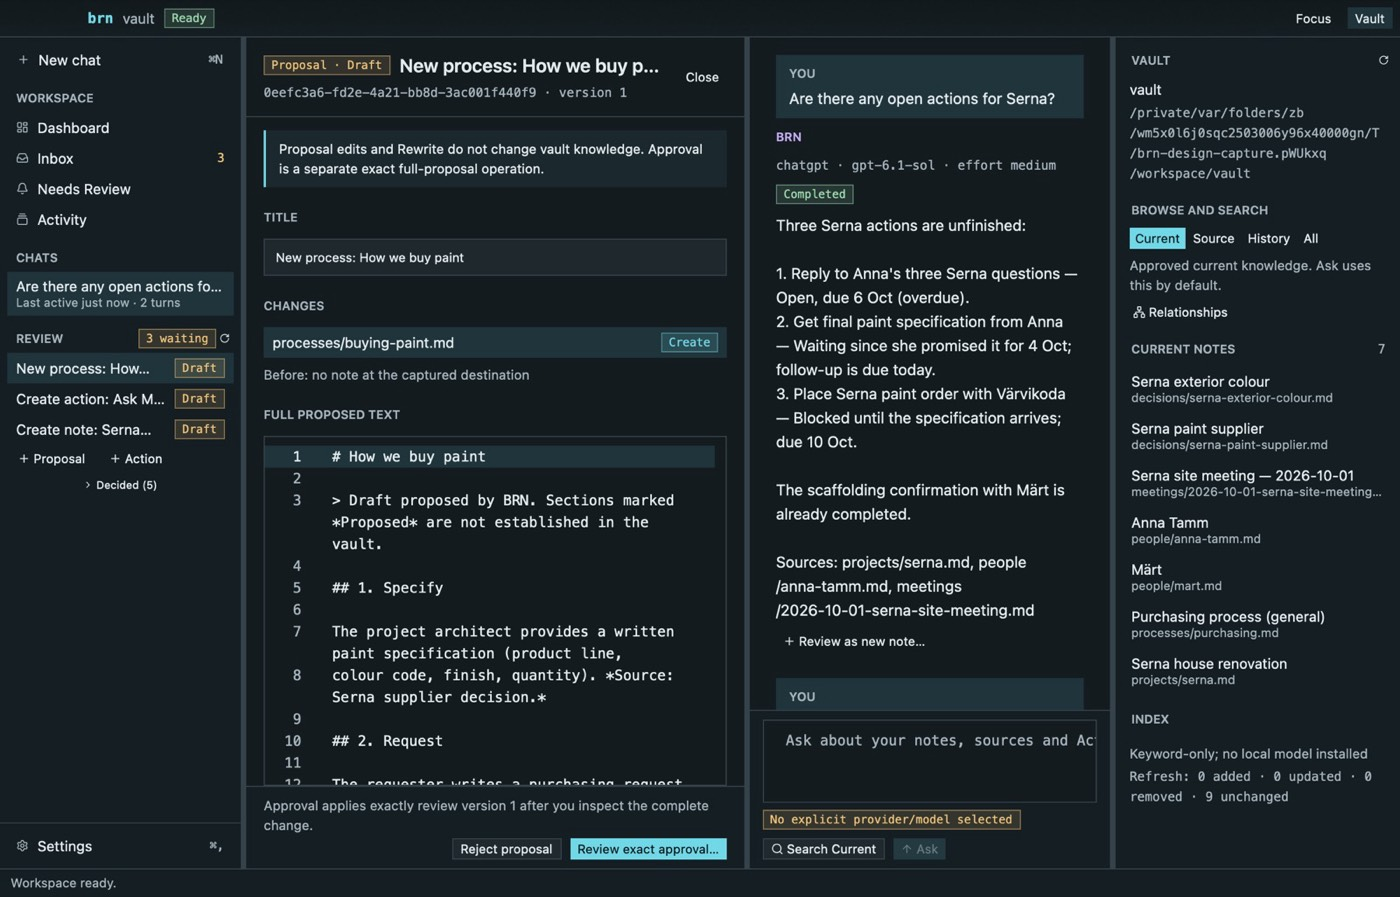
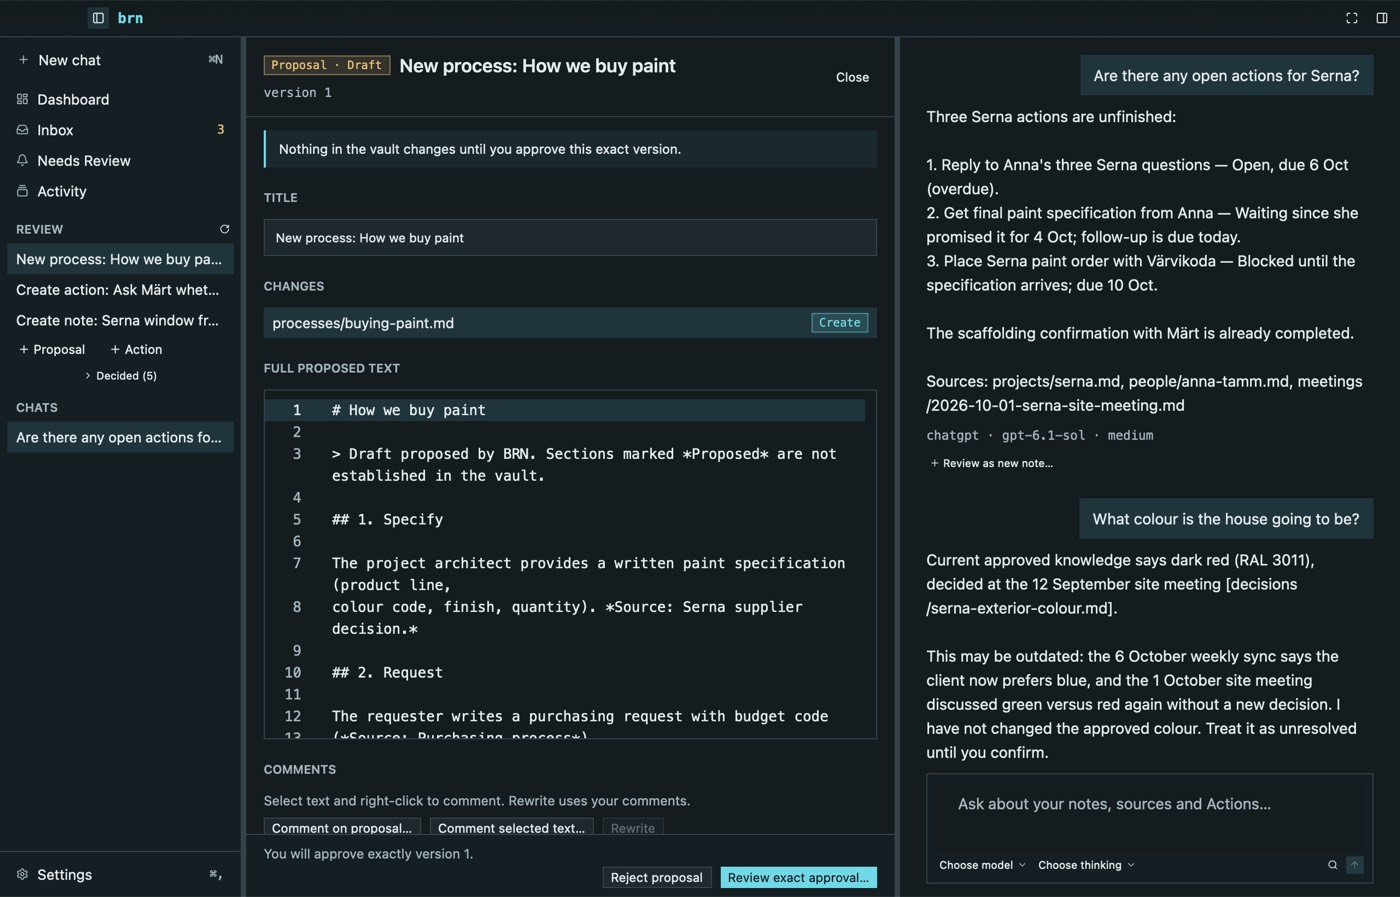
docs(design): record owner feedback round 1 as decisions D16-D19
Update IA, components, interaction, trust patterns, verification,
open preferences, prototype composer and current screenshots.

diff --git a/docs/design/src/prototypes/brn-prototype.html b/docs/design/src/prototypes/brn-prototype.html
@@ -84,8 +84,10 @@
   .chip { font: 10px var(--brn-font-mono); padding: 0 4px; margin-left: 3px; vertical-align: 1px; border: 1px solid; cursor: pointer; }
   .trail { font: 11.5px var(--brn-font-mono); color: var(--brn-muted); margin: 4px 0 8px; }
   .trail b { color: var(--brn-purple); font-weight: normal; }
-  .composer { border-top: 1px solid var(--brn-line); background: var(--brn-panel); padding: 8px 12px; }
-  .composer textarea { width: 100%; height: 64px; resize: none; background: var(--brn-paper); color: var(--brn-text); border: 1px solid var(--brn-line); padding: 8px; font: 13px var(--brn-font-ui); }
+  .composer { margin: 0 24px 12px; border: 1px solid var(--brn-line); background: var(--brn-panel); padding: 8px 12px; }
+  .picker { font: 12px var(--brn-font-ui); color: var(--brn-text); background: transparent; border: 0; padding: 2px 4px; }
+  .q { margin-left: auto; width: fit-content; }
+  .composer textarea { width: 100%; height: 56px; resize: none; background: transparent; color: var(--brn-text); border: 0; padding: 4px; font: 14px var(--brn-font-ui); }
   .status { display: flex; align-items: center; gap: 12px; padding: 0 12px; background: var(--brn-panel); border-top: 1px solid var(--brn-line); font-size: 11.5px; color: var(--brn-muted); }
   .draft { font-size: 14px; line-height: 1.65; }
   .draft mark { background: none; color: inherit; border-bottom: 2px solid var(--tone); }
@@ -115,15 +117,15 @@
 </div>
 <div class="app">
   <header>
-    <span class="brand">brn</span><span style="color:var(--brn-muted)">work-vault</span>
-    <span id="phase" class="badge t-success">Ready</span>
+    <span class="brand">brn</span>
+    <span id="phase" class="badge t-success" hidden>Ready</span>
     <span style="flex:1"></span>
     <span id="budget" class="meta"></span>
     <button id="stop" class="btn-danger" hidden>Stop</button>
     <button class="btn-ghost" id="focus" title="Hide both rails (⇧⌘↩)">Focus</button>
     <button class="btn-ghost" id="vaultToggle" title="Show or hide the vault (⌥⌘0)">Vault</button>
   </header>
-  <div class="main" id="main">
+  <div class="main novault" id="main">
     <nav aria-label="Navigator">
       <button class="row btn-outline" data-go="chat" data-new>＋ <span class="grow">New chat</span><span class="meta">⌘N</span></button>
       <div class="label">Workspace</div>
@@ -294,7 +296,7 @@ function renderChat() {
     Three Serna Actions are unfinished. The most urgent is replying to Anna’s three questions — due yesterday<span class="chip t-success" onclick="explain('vault')">vault</span>. You are also waiting for her final specification<span class="chip t-success" onclick="explain('vault')">vault</span>, which blocks the paint order<span class="chip t-success" onclick="explain('vault')">vault</span>.</div>
     <div class="q"><div class="who">YOU</div>Write an answer to Anna.</div><div class="a" id="draftAnswer"></div></div>`;
   }
-  $('#chat').innerHTML = body + `<div class="composer"><textarea id="composer" aria-label="Message" placeholder="${offline ? 'AI unavailable — you can still search, browse and review' : 'Ask about your notes, sources and Actions…'}"></textarea><div class="flex spread" style="margin-top:6px"><span>${offline ? badge('ChatGPT unavailable · checked 09:38', 'danger') : '<span class="meta">ChatGPT / gpt-6.1-sol · medium · budget 40 k tokens</span>'}</span><span class="flex">${badge('Current scope', 'success')}<button class="btn-outline">Search Current</button><button class="btn-primary" ${offline ? 'disabled' : ''} onclick="draftReply()">Ask</button></span></div></div>`;
+  $('#chat').innerHTML = body + `<div class="composer"><textarea id="composer" aria-label="Message" placeholder="${offline ? 'AI unavailable — you can still search, browse and review' : 'Ask about your notes, sources and Actions…'}"></textarea><div class="flex spread" style="margin-top:6px"><span class="flex"><select aria-label="Model" class="picker"><option>gpt-6.1-sol</option><option>gpt-6-luna</option><option>GPT-6 Astra (Copilot)</option></select><select aria-label="Thinking effort" class="picker"><option>Low thinking</option><option selected>Medium thinking</option><option>High thinking</option></select>${offline ? badge('ChatGPT unavailable', 'danger') : ''}</span><span class="flex"><button class="btn-ghost" title="Search notes (no AI)">⌕</button><button class="btn-primary" ${offline ? 'disabled' : ''} onclick="draftReply()" aria-label="Ask">↑</button></span></div></div>`;
   renderDraftAnswer();
 }
 function renderDraftAnswer() {
@@ -307,7 +309,7 @@ function renderDraftAnswer() {
   <div class="flex" style="margin-top:8px"><button class="btn-primary" onclick="go('review')">Open reply proposal (v${S.version})</button><button class="btn-ghost" onclick="go('needs-review')">See colour conflict</button></div>
   ${callout('ai', 'Possible outcome to capture: <b>Anna asked about window frames</b> → add to the Serna project. <button class="btn-outline">Propose capture…</button> <button class="btn-ghost">Not now</button>')}`;
 }
-function busy(on, label) { $('#stop').hidden = !on; $('#phase').className = 'badge ' + (on ? 't-ai' : 't-success'); $('#phase').textContent = on ? (label || 'Answering · provisional') : 'Ready'; $('#budget').textContent = on ? 'budget 40 k tokens · ⌘. to stop' : ''; }
+function busy(on, label) { $('#stop').hidden = !on; $('#phase').hidden = !on; $('#phase').className = 'badge ' + (on ? 't-ai' : 't-success'); $('#phase').textContent = on ? (label || 'Answering · provisional') : 'Ready'; $('#budget').textContent = on ? 'budget 40 k tokens · ⌘. to stop' : ''; }
 function draftReply() {
   chatMode = 'draft'; location.hash = 'chat'; streaming = true; busy(true); route();
   const steps = ['Searching vault', 'checking 8 sources', 'reading thread “Serna paint spec”', 'web: Värvikoda lead times', 'drafting'];

diff --git a/docs/design/src/information-architecture.md b/docs/design/src/information-architecture.md
@@ -2,41 +2,46 @@
 
 ## Window regions
 
+Minimal by default (owner direction D16): sidebar and chat only; the vault rail
+opens on demand.
+
 ```text
-┌ Header: brn · vault name · phase badge ·········· Stop · Focus · Vault ┐
-├ Navigator ┬ Centre: document pane ┃ chat ─────────────┬ Vault rail ──┤
-│ New chat  │ (a surface or note)   ┃ transcript        │ identity     │
-│ Workspace │                       ┃                   │ scope        │
-│ Chats     │                       ┃ composer          │ notes, index │
-│ Review    │                       ┃                   │              │
+┌ Header: ▯ brn · (phase badge only when not Ready) ······ Stop · ⤢ · ▯ ┐
+├ Sidebar ──┬ Centre: document pane ┃ chat ─────────────┬ (Vault rail) ┤
+│ New chat  │ (a surface or note)   ┃    question  ▐    │ closed by    │
+│ Dashboard │                       ┃ answer            │ default      │
+│ Inbox  3  │                       ┃ model · effort    │              │
+│ Needs Rev │                       ┃ ┌ composer ─────┐ │              │
+│ Review    │                       ┃ │ model▾ think▾ │ │              │
+│ Chats     │                       ┃ └───────────────┘ │              │
 │ Settings  │                       ┃                   │              │
-├───────────┴───────────────────────┸───────────────────┴──────────────┤
-└ Status strip: last event · (future) model and budget                 ┘
+└───────────┴───────────────────────┸───────────────────┴──────────────┘
+  (status strip appears only for a real notice)
 ```
 
-- **Header** — identity and global state only: brand, vault name, a phase badge
-  (Ready / Answering · provisional / Rewriting · knowledge unchanged / Workspace
-  unavailable), Stop while work runs, Focus, Vault toggle, and Settings when the
-  navigator is collapsed.
-- **Navigator (left rail)** — *where work lives*. Groups, in order:
+- **Header** — sidebar toggle, brand, a phase badge only when not Ready
+  (Answering · provisional / Rewriting · knowledge unchanged / Workspace
+  unavailable), Stop while work runs, Focus, vault toggle, and Settings when the
+  sidebar is hidden.
+- **Sidebar (left)** — *where work lives*, in order:
   1. **New chat** (⌘N).
-  2. **Workspace** — the operational surfaces, each with a count only when the
-     count is already known: *Dashboard* (future *Today*), *Inbox*,
-     *Needs Review*, *Activity*; later *Projects*, *People*, *Graph*.
-  3. **Chats** — active sessions, newest first, with last-activity age; later a
-     link to all chats and the archive.
-  4. **Review** — proposals awaiting a decision, each with a state badge;
-     decided proposals collapse under *Decided (n)*. Small create commands
-     (*Proposal*, *Action*) sit here because creating means drafting for review.
+  2. **Dashboard** (future *Today*), **Inbox**, **Needs Review**, **Activity**
+     — each with a count only when it is already known.
+  3. **Review** — proposals awaiting a decision (no badge for ordinary drafts);
+     *Proposal* / *Action* create commands; *Decided (n)* collapsed.
+  4. **Chats** — titles only; last activity is in the tooltip.
   5. **Settings** (⌘,) pinned to the bottom.
-- **Centre** — chat is always present. Opening a surface or note shows it in the
-  **document pane** beside the chat (resizable divider). With nothing open, the
-  chat takes the whole centre. Narrow windows switch to *Document | Chat* tabs.
-- **Vault rail (right)** — *what you know*: vault identity, retrieval scope
-  (Current / Source / History / All, with the scope's meaning), relationships,
-  notes in that scope, recovered edits and index state.
-- **Status strip** — the last event in a sentence, and persistent workspace
-  notices (startup failure, restored backup, layout warning).
+- **Centre** — chat is always present, as a centred reading column. With no
+  conversation the greeting and composer sit together in the middle. Opening a
+  surface or note shows it in the **document pane** beside the chat. Narrow
+  windows switch to *Document | Chat* tabs.
+- **Composer** — the question box, the **model** and **thinking-effort**
+  pickers (D17), Search (no AI) and Ask / Stop.
+- **Vault rail (right, closed by default)** — the Markdown vault: notes in the
+  selected retrieval scope (Current / Source / History / All), relationships,
+  recovered edits and index state. Open it with the header toggle or ⌥⌘0.
+- **Status strip** — only when there is something to say: a last event worth
+  reading, startup failure, restored backup or layout warning.
 
 ## Full-product navigation model
 

diff --git a/docs/design/src/decisions.md b/docs/design/src/decisions.md
@@ -21,6 +21,10 @@ owner column. Add new decisions at the end; supersede rather than rewrite.
 | D13 | Handbook in Markdown + mdBook; tokens generated from code | Proposed, implemented | — |
 | D14 | Real-view headless captures for documentation | Proposed, implemented | — |
 | D15 | Recorded times shown in UTC for now | Proposed, implemented; preference open | — |
+| D16 | Minimal, ChatGPT-desktop-like chat; vault rail closed by default | Owner direction, implemented | Owner feedback 2026-10-07 |
+| D17 | Model and thinking-effort pickers in the composer | Owner direction, implemented | Owner feedback 2026-10-07 |
+| D18 | Select text and right-click to comment in proposals | Owner direction, implemented | Owner feedback 2026-10-07 |
+| D19 | Keep the refined-terminal theme | Owner liked it (feedback 2026-10-07) | Liked; formal acceptance pending |
 
 ## D1 Keep the refined-terminal identity, correct its typography
 
@@ -106,6 +110,33 @@ is visual evidence only.
 The UI had raw millisecond values. UTC is exact and identical across clients;
 local-time display is a preference to settle (see
 [open preferences](open-questions.md)).
+
+## D16 Minimal, ChatGPT-desktop-like chat
+
+Owner feedback, 2026-10-07: “extremely busy… too much info… should resemble the
+GPT desktop app… needs to be more minimal”. Changes: vault rail closed on first
+run (header toggle opens it; a saved layout keeps your choice); collapsed rails
+take no space; header shows only toggles and a phase badge when not Ready; the
+status strip appears only for real notices; the empty chat centres a greeting and
+the composer; questions are right-aligned bubbles, answers plain text with a
+quiet model line; sidebar without the Workspace label, Draft badges or chat ages
+(ages in tooltips); fewer explanatory sentences; recovery and advanced commands
+behind *More options* unless they are needed; Inbox cleanup and Source
+preparation appear only when relevant.
+
+## D17 Model and thinking-effort pickers in the composer
+
+Owner feedback: model and effort “should not be hidden in Settings”. The
+composer shows two dropdowns (model from discovered models, Low / Medium / High
+thinking). They send the same selection commands as Settings, so each request
+still freezes its choice and BRN never switches silently. Connecting accounts
+and discovering models stay in Settings (linked from the model menu).
+
+## D18 Right-click to comment
+
+Owner feedback: commenting should work by selecting text and right-clicking.
+The proposed-text editor's right-click menu offers *Comment on selection…*,
+*Copy* and *Select All*; the existing exact-selection comment flow is reused.
 
 ## Earlier design material reconciled
 

diff --git a/docs/design/src/components.md b/docs/design/src/components.md
@@ -21,7 +21,9 @@ themed by [`theme.rs`](../../../crates/brn-desktop/src/native/theme.rs).
 | Button tiers | `ui::primary`, `ui::secondary`, `ui::quiet`, or `Button` + `.primary()/.outline()/.ghost()/.danger()` | See below | — | Implemented |
 | Count tile | inline in [`dashboard.rs`](../../../crates/brn-desktop/src/native/dashboard.rs) | Dashboard counts; tone only when non-zero | General statistics | Implemented (candidate for `ui`) |
 | Decision bar | inline in [`review.rs`](../../../crates/brn-desktop/src/native/review.rs) | Persistent bottom bar for a proposal decision | Non-binding actions | Implemented (candidate for `ui`) |
-| Chat exchange | `chat_exchange` in [`simple.rs`](../../../crates/brn-desktop/src/native/simple.rs) | Question block, BRN label with recorded provider/model/effort, status badge, answer | — | Implemented |
+| Chat exchange | `chat_exchange` in [`simple.rs`](../../../crates/brn-desktop/src/native/simple.rs) | Right-aligned question bubble, plain answer, quiet recorded provider · model · effort line; a status badge only when not Completed | — | Implemented |
+| Composer pickers | `render_composer` in [`simple.rs`](../../../crates/brn-desktop/src/native/simple.rs) | Model and thinking-effort dropdowns in the composer; same commands as Settings | Account connection (stays in Settings) | Implemented |
+| More options | `tools_toggle` in [`simple.rs`](../../../crates/brn-desktop/src/native/simple.rs) | Hiding rarely needed recovery/advanced commands; they show automatically when needed | Primary actions | Implemented |
 | Claim chip | prototype `.chip` | Inline provenance label on a claim | — | Prototype |
 | Activity trail | prototype `.trail` | One-line summary of AI steps, time and tokens | Raw tool transcripts | Prototype |
 | Review group list | prototype Inbox | Checkbox list of independent proposals + one approval | — | Prototype |
@@ -37,6 +39,13 @@ themed by [`theme.rs`](../../../crates/brn-desktop/src/native/theme.rs).
 
 Use `.small()` in panes and rails; reserve default size for dialogs. Labels are
 verbs; an ellipsis (…) means a dialog or form follows.
+
+## Minimal by default
+
+Owner direction (D16): show the least that lets the owner act. Prefer no badge
+for the normal state, tooltips over always-visible metadata, one short sentence
+over a paragraph, and sections that appear only when they apply. Safety
+statements stay, but say it once and plainly.
 
 ## States every component must show
 

diff --git a/docs/design/src/verification.md b/docs/design/src/verification.md
@@ -8,7 +8,7 @@ Each line names what was checked and how; none of it is owner acceptance.
 
 | Check | Scope | Result |
 | --- | --- | --- |
-| `cargo test -p brn-desktop --features native-ui,native-retrieval,native-test-support` | Unit, state and native widget tests (synthetic interaction via the toolkit test context) | 300 passed + 7 CLI tests passed (baseline 299 + 7; one new `utc_time` test) |
+| `cargo test -p brn-desktop --features native-ui,native-retrieval,native-test-support` | Unit, state and native widget tests (synthetic interaction via the toolkit test context) | 301 passed + 7 CLI tests passed (baseline 299 + 7; new `utc_time` and right-click comment tests) |
 | `cargo clippy -D warnings` | brn-desktop with default, `native-ui`, `native-ui,native-retrieval,native-test-support`, `native-capture` | Clean (upstream `block` future-incompatibility note only) |
 | `cargo fmt --check` | Workspace | Clean |
 | `bash scripts/verify-desktop-shell.sh --native` | Repository desktop gate: fmt, workspace build/clippy/tests, native builds, clippy for every native feature set, native tests, headless AppWorker startup | Passed (exit 0) after review fixes |
@@ -57,10 +57,22 @@ capture tooling) by a separate reviewer agent. Findings and dispositions:
 | `python3 scripts/check-markdown-links.py` | Passes |
 | `python3 -m unittest discover -s scripts/tests` | Passes, including token drift and contrast tests |
 
+### Owner feedback round 1 (2026-10-07)
+
+Feedback: too busy and distracting; unclear what the vault rail is; model and
+thinking effort should be in the chat box; select-and-right-click commenting;
+should resemble the ChatGPT desktop app; theme liked. Implemented as D16–D18 and
+re-verified: native tests 301 + 7 pass; clippy clean for all feature sets;
+headless captures refreshed and inspected. A new widget test dispatches the
+right-click *Comment on selection…* action on a real selection and checks that
+the exact-selection comment dialog opens. Native right-click by hand remains to
+be tried.
+
 ## Owner acceptance
 
 | Item | Decision | Date |
 | --- | --- | --- |
 | Design direction and decisions D1–D15 | *Pending review* | — |
+| D16–D18 (minimal layout, composer pickers, right-click comments) | Owner-directed; result pending your next look | 2026-10-07 |
 | Current-app restyle on this branch | *Pending review* | — |
 | Future designs and prototype | *Pending review* | — |

diff --git a/docs/design/src/open-questions.md b/docs/design/src/open-questions.md
@@ -6,14 +6,14 @@ or proposed. Record your answer in [decisions](decisions.md).
 
 | # | Question | Current default | Alternatives |
 | --- | --- | --- | --- |
-| 1 | **Overall feel**: keep the dark-first refined-terminal identity with sans text? | Yes (D1) | Lighter default; softer corners (2–4 pt radius); serif for reading |
+| 1 | **Overall feel**: keep the dark-first refined-terminal identity with sans text? | Yes (D1); owner liked the theme (D19) and asked for less density (D16) | Further reduction after the next look |
 | 2 | **Times**: show recorded times in UTC or your local time zone? | UTC, exact | Local with UTC on hover; relative (“2 h ago”) in lists |
 | 3 | **Home**: should *Today* replace *Dashboard* as the first surface when planning lands? | Yes (D9) | Keep Dashboard name; open Today automatically at launch |
 | 4 | **Decided proposals** in the navigator: collapsed, hidden after N days, or only in Activity? | Collapsed `Decided (n)` | Hide entirely; show last 3 |
 | 5 | **Claim chips**: one chip per claim, or only for non-vault claims (proposed/unknown/web/conflict)? | Every important claim | Only non-vault, to reduce noise |
 | 6 | **Budget display**: always show tokens/time, or only when a request runs long? | Always in the activity trail | Only above a threshold |
 | 7 | **Icons**: embed more Lucide icons (requires enabling the toolkit's full icon set) for Projects/People/Graph? | Stay within the embedded ~100 | Full set (larger binary) |
-| 8 | **Recovery tools** in the note editor (*Flush*, *Observe disk*, *Compare*, *Reload*): always visible (quiet) or only when relevant? | Always visible, quiet | Behind a *Recovery* disclosure |
+| 8 | **Recovery tools** in note and proposal views | Settled by D16: behind *More options*, shown automatically when needed | — |
 | 9 | **Language**: should UI chrome be available in Estonian? | English chrome, content as written | Estonian chrome option |
 | 10 | **Density**: current 13 pt chrome / 14 pt reading. | As is | Larger reading text (15–16 pt) |
 

diff --git a/docs/design/src/brn-patterns.md b/docs/design/src/brn-patterns.md
@@ -46,7 +46,8 @@ stated in words (“has not been decided”). See the [prototype](prototypes.md)
 ## Drafts and Rewrite
 
 Drafts are private and persisted, but never masquerade as current knowledge.
-Comments are temporary review notes, deleted after successful approval. Rewrite
+Comments are temporary review notes, deleted after successful approval. Select
+text in the proposed text and right-click → *Comment on selection…* (D18). Rewrite
 runs on the selected model with a visible phase (“Rewriting · knowledge
 unchanged”), can be stopped, and replaces the whole draft as a new version.
 

diff --git a/docs/design/src/interaction.md b/docs/design/src/interaction.md
@@ -15,6 +15,7 @@ Implemented shortcuts (menus *BRN*, *View*, *Navigate*):
 | ⇧⌘↩ | Focus mode |
 | ← → (⇧ for larger steps) | Move a focused divider |
 | Esc | Close a dialog |
+| Right-click selected proposal text | *Comment on selection…*, Copy, Select All |
 
 Rules: every action is reachable by keyboard; focus is always visible (2 pt cyan
 ring); dialogs move focus to their safest default, never to a destructive
